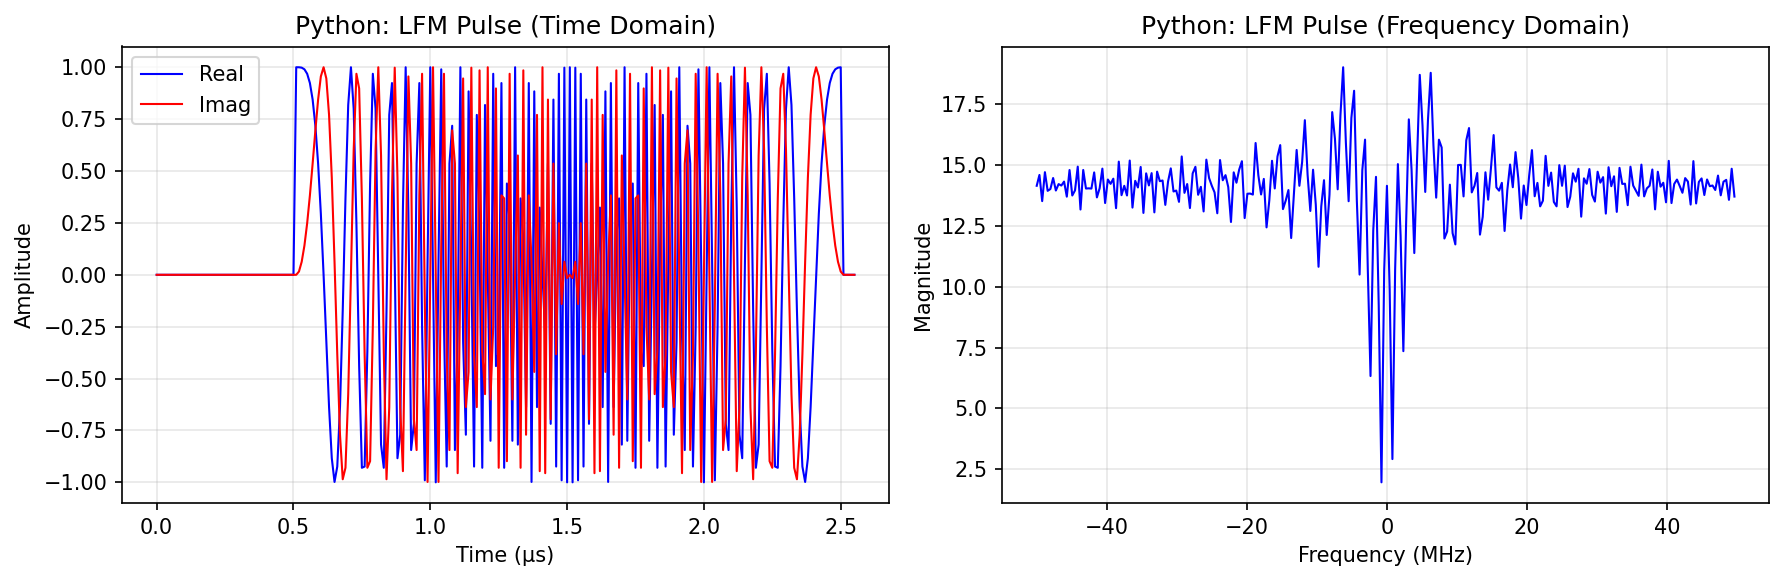
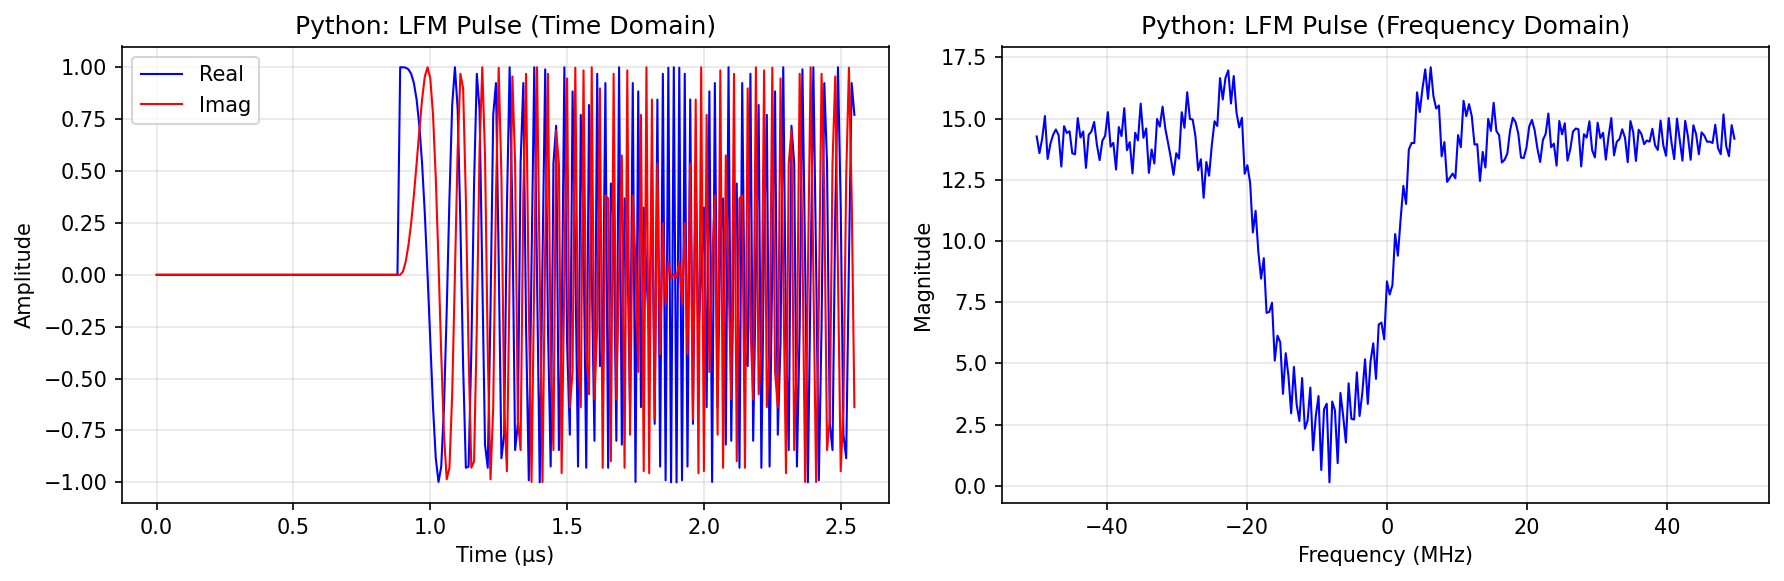
Move target position to center of range dimension for better visibility

diff --git a/examples/radar_demo.rs b/examples/radar_demo.rs
@@ -43,7 +43,7 @@ fn lfm_generator(_inputs: &HashMap<String, GraphData>, params: &HashMap<String, 
     // Generate LFM pulse with rectangular envelope
     let chirp_rate = bandwidth / pulse_width;
     
-    let pulse_start = (num_samples as f64 * 0.15) as usize; // Start at 15% so peak appears mid-range
+    let pulse_start = (num_samples as f64 * 0.35) as usize; // Start at 35% for central peak position
     let pulse_samples = (pulse_width * sample_rate) as usize;
     let pulse_end = (pulse_start + pulse_samples).min(num_samples);
     

diff --git a/examples/python_radar_demo.py b/examples/python_radar_demo.py
@@ -37,7 +37,7 @@ def lfm_generator(inputs, variant_params):
     
     # Create rectangular pulse envelope
     pulse_envelope = np.zeros(num_samples)
-    pulse_start = int(num_samples * 0.15)  # Start at 15% so peak appears mid-range
+    pulse_start = int(num_samples * 0.35)  # Start at 35% for central peak position
     pulse_end = pulse_start + int(pulse_width * sample_rate)  # Pulse duration
     pulse_envelope[pulse_start:pulse_end] = 1.0
     

diff --git a/examples/generate_python_plots.py b/examples/generate_python_plots.py
@@ -19,7 +19,7 @@ def generate_lfm_pulse():
     
     # Create rectangular pulse envelope
     pulse_envelope = np.zeros(num_samples)
-    pulse_start = int(num_samples * 0.2)  # Start at 20%
+    pulse_start = int(num_samples * 0.35)  # Start at 35% for central peak position
     pulse_end = pulse_start + int(pulse_width * sample_rate)  # Pulse duration
     pulse_envelope[pulse_start:pulse_end] = 1.0
     

diff --git a/examples/generate_rust_plots.py b/examples/generate_rust_plots.py
@@ -24,7 +24,7 @@ def generate_lfm_pulse():
     
     # Create rectangular pulse envelope
     pulse_envelope = np.zeros(num_samples)
-    pulse_start = int(num_samples * 0.2)  # Start at 20%
+    pulse_start = int(num_samples * 0.35)  # Start at 35% for central peak position
     pulse_end = pulse_start + int(pulse_width * sample_rate)  # Pulse duration
     pulse_envelope[pulse_start:pulse_end] = 1.0
     
